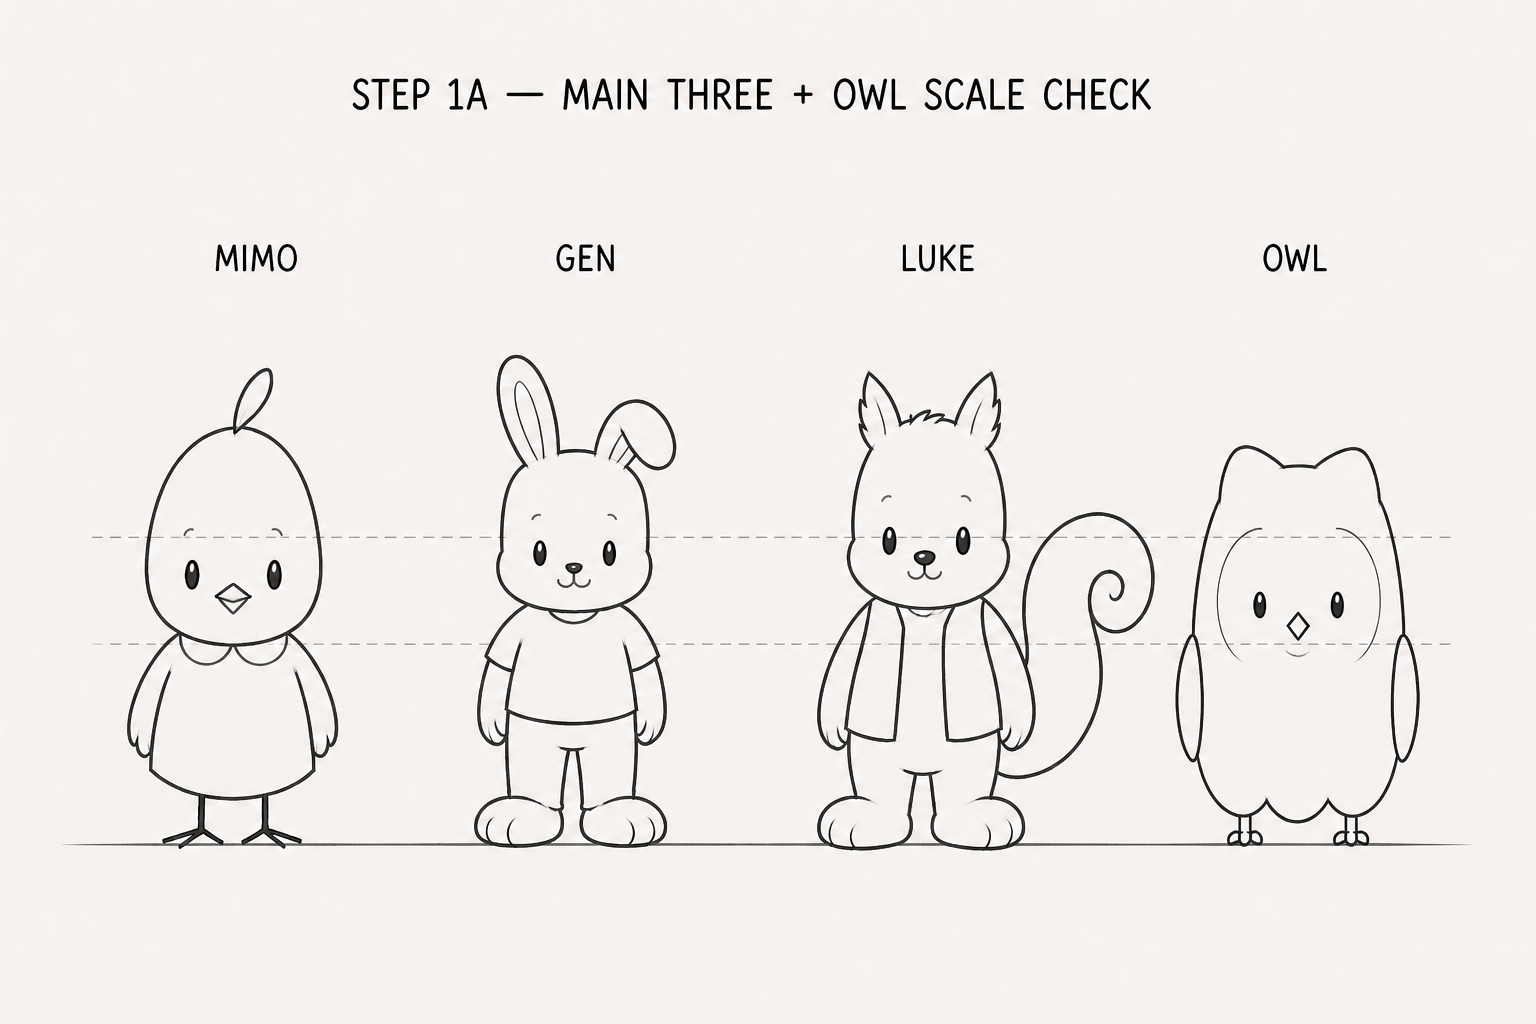
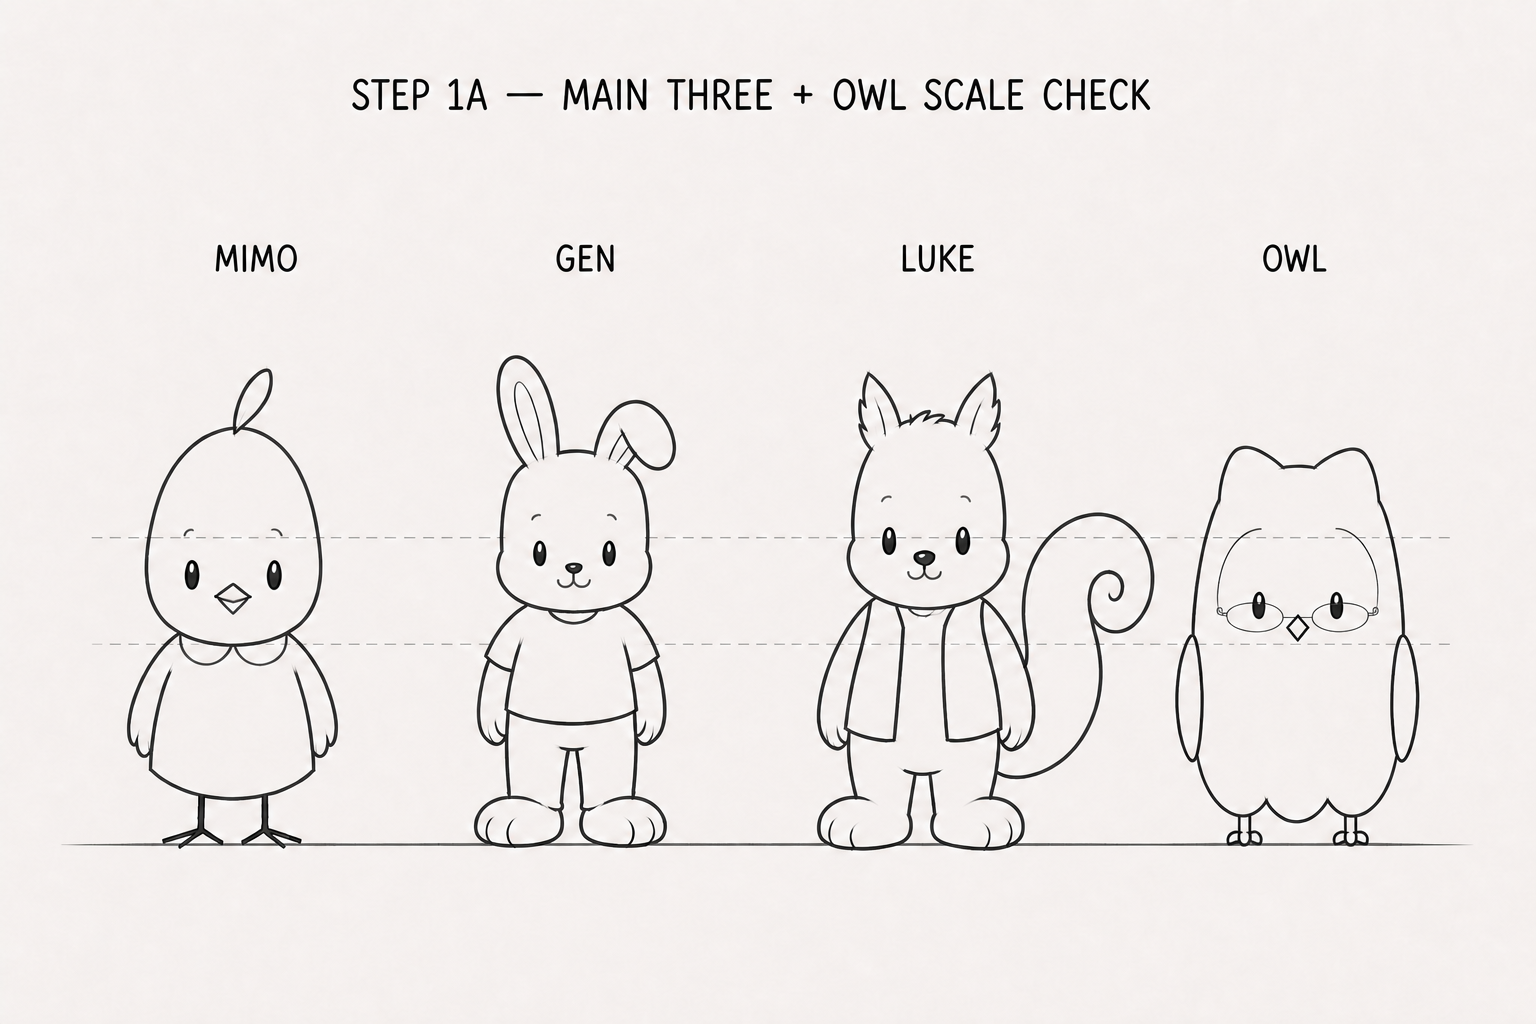
Integrate owl into mascot scale study

diff --git a/planning/style-studies/output-process.html b/planning/style-studies/output-process.html
@@ -143,13 +143,11 @@
     });
     sections.unshift({key:"feedback-20260812",label:"2026-08-12 たかさんfeedback｜FIX順序を再設計",desc:"頭部・身体・ポーズを同時に直すと、ポーズごとに頭身が変わる。8/12 feedbackでは依存関係を固定し、前段の正本を次段がそのまま受け継いだかをゲートごとに確認する。配色は全工程の後。",bodyGrid:true,items:[
       {type:"note",label:"DEPENDENCY｜5つの意思決定軸",text:"STEP 1 成人性の表現方針 → STEP 2 年齢感・正面頭身・相対身長 → STEP 3 三方向の立体整合 → STEP 4 服・手・線の制約 → STEP 5 表情とポーズの演技。各STEPは直前のFIX画像を唯一の形状参照にする。"},
-      {stepLabel:"STEP 1｜成人性の表現方針",title:"成人らしさを、人型化せずどの身体形式で表すか",note:"A＝SMALL MASCOT、B＝柔らかな成人マスコット、C＝人型成人を比較し、Aを採用する。成人性は長い脚や服装ではなく、控えめな顔、安定した立ち方、役割に合う反応で表す。ここでは個別の相対身長や衣装仕様は決めない。",file:"outputs/groups/13-main-three-adult-mascot-policy-abc-comparison-v1.png",status:"A・SMALL MASCOT FIX",statusClass:"current"},
-      {stepLabel:"OWL｜STEP 1A SMALL MASCOT LOCK",title:"分析者・進行役として受容的に見える正面形を固定する",note:"簡潔な線と繭形の一体量感を維持し、Mimoより大きくLukeよりわずかに低い身体高へ調整した最終候補。半目を小さく開いた縦長の目へ変え、片目だけをわずかに細くして比較を表す。黒い上まぶたと上げた翼を外し、両翼を休ませ、顔盤の下へ浅い可動境界を加えた。冷静・深い・納得を保ちながら、退屈、疑い、説教に見えないことを優先する。",file:"outputs/characters/fukurou/fukurou-step1a-small-mascot-lock.png",status:"最終候補・要確認",statusClass:"current"},
-      {stepLabel:"OWL｜MAIN THREE SCALE CHECK",title:"Mimo・Gen・Lukeと同じ接地線で最終サイズを確認する",note:"三人の正面FIXを変えず、修正後フクロウを同一接地線へ配置した。フクロウはLukeの耳・尻尾を除く身体高の約95％を目安とし、Mimoより大きくLukeよりわずかに低い。幅のある一体型身体で会議の進行役としての存在感を保ちつつ、A＝SMALL MASCOTの短い身体形式と小さな足を維持する。",file:"outputs/groups/main-three-owl-step1a-scale-check.png",status:"最終比較・要確認",statusClass:"current"},
-      {stepLabel:"STEP 2｜年齢感・頭身・相対身長",title:"A案を三人へ適用したとき、正面の頭身と身長差をどうするか",note:"STEP 1のA案だけを身体方針に使い、三人を同じ接地線・同じ縮尺で正面化した。Genは小さく角の丸い輪郭、Lukeは頬の横張りを抑えた縦長輪郭へ戻した。耳先の総高、身体、裾、腕、足、尻尾は変更せず、STEP 1からの顔形状継承を優先した。",file:"outputs/groups/48-main-three-small-mascot-age-height-front-gate-v3-gen-luke-face-lock.png",status:"GEN・LUKE顔継承・要確認",statusClass:"current"},
-      {stepLabel:"STEP 2｜PIXEL MEASUREMENT",title:"同じ1536×1024画像上で、各パーツの大きさをどう比較するか",note:"LUKE修正後のSTEP 2正面PNGを同一座標系で再計測した。全高は耳・冠羽込み、頭幅・頭高は耳・冠羽を除外。Lukeの頭部は205×221pxから186×227pxへ更新し、横幅を抑えた縦長比率を数値でも固定する。",file:"outputs/groups/48-main-three-small-mascot-age-height-front-gate-v3-pixel-guide.png",status:"LUKE更新・同縮尺px",statusClass:"current"},
+      {stepLabel:"STEP 1｜成人性の表現方針",title:"成人らしさを、人型化せずどの身体形式で表すか",note:"A＝SMALL MASCOT、B＝柔らかな成人マスコット、C＝人型成人を比較し、Aを採用する。Mimo・Gen・Lukeに加え、フクロウも大きな頭部量感、短い身体、小さな足を持つAへ統合する。成人性は長い脚や服装ではなく、控えめな顔、安定した立ち方、役割に合う反応で表す。",file:"outputs/groups/13-main-three-adult-mascot-policy-abc-comparison-v1.png",status:"A・SMALL MASCOT FIX",statusClass:"current"},
+      {stepLabel:"STEP 2｜年齢感・頭身・相対身長",title:"A案を四人へ適用したとき、正面の頭身と身長差をどうするか",note:"STEP 1のA案だけを身体方針に使い、Mimo・Gen・Luke・フクロウを同じ接地線・同じ1536×1024座標系で正面化した。三人のFIX造形を維持し、フクロウは幅のある頭胴一体型、短い翼、小さな足、本人の近用眼鏡を採用。突出部と身体本体を分けて相対サイズを判断する。",file:"outputs/groups/main-three-owl-step1a-scale-check.png",status:"フクロウ統合・四人要確認",statusClass:"current"},
+      {stepLabel:"STEP 2｜PIXEL MEASUREMENT",title:"同じ1536×1024画像上で、四人の各パーツをどう比較するか",note:"STEP 2の四人正面PNGを同一座標系で再計測した。Mimo・Gen・Lukeは全高、耳・冠羽を除く頭幅・頭高を記録。頭胴が連続するフクロウは、別の頭境界を捏造せず、全高399px、身体外形幅218px、顔盤173×185px、翼長146pxとして記録する。眼鏡は内部記号のため外形寸法へ含めない。",file:"outputs/groups/main-three-owl-step1a-pixel-guide.png",status:"フクロウ追加・同縮尺px",statusClass:"current"},
       {type:"note",label:"STEP 2 ACCEPTANCE｜正面FIX条件",text:"①三人とも幼児ではなく小さな成人に見える、②同じ地面と縮尺で相対身長を比較できる、③頭部が身体を圧迫しない、④正面シルエットだけで識別できる。承認後、このPNGをSTEP 3の唯一の形状参照にする。"},
-      {stepLabel:"STEP 3｜三方向の立体整合",title:"FIXした正面形を変えず、横・後ろをどう成立させるか",note:"STEP 2 v3を唯一の形状・縮尺参照にして前・横・後ろへ展開した。Genの丸角頭部とLukeの細い縦長頭部を三方向で維持し、三人の相対身長、腕長、裾、接地線を正面から引き継いだ。",file:"outputs/groups/49-main-three-small-mascot-turnaround-gate-v2-luke-face-lock.png",status:"LUKE頭部反映・要確認",statusClass:"current"},
+      {stepLabel:"STEP 3｜三方向の立体整合",title:"FIXした正面形を変えず、横・後ろをどう成立させるか",note:"現在の三面図はMimo・Gen・Lukeの正面FIXを前・横・後ろへ展開した基準。フクロウはSTEP 2の正面サイズと眼鏡位置が承認された後、頭胴一体の外形、顔盤、翼端、三枚羽根の裾、眼鏡の保持線を同じ接地線へ統合する。STEP 2未承認の間は別カードを増やさず、この工程内の更新待ちとする。",file:"outputs/groups/49-main-three-small-mascot-turnaround-gate-v2-luke-face-lock.png",status:"フクロウ統合待ち・要確認",statusClass:"current"},
       {type:"note",label:"STEP 3 ACCEPTANCE｜三面図FIX条件",text:"正面がSTEP 2と同一／三方向の頭高・肩・腰・接地線が一致／耳・冠羽・尻尾の付け根が説明できる。ここでは衣装装飾を増やさない。"},
       {stepLabel:"STEP 4｜服・手・線の制約",title:"FIXした身体へ、8/12 feedbackをどこまで載せるか",note:"STEP 3 v2の修正後頭部とSMALL MASCOT縮尺を維持したまま、小さなU、短丈トップ、Lukeの開いたベストを適用した。Lukeの縦長頭部は前・横・後ろで維持し、手先は指・爪を描かない丸い塊としている。",file:"outputs/groups/50-main-three-small-mascot-feedback-constraints-turnaround-v2-luke-face-lock.png",status:"LUKE新頭部へ制約適用・要確認",statusClass:"current"},
       {type:"note",label:"STEP 4 ACCEPTANCE｜制約適用条件",text:"服を加えてもSTEP 3の輪郭と関節位置が変わらない／Uが全方向で論理的に配置される／手先に指・爪が戻らない／線が均一なベクター調にならない。"},

diff --git a/planning/style-studies/annotate_main_three_owl_measurements.py b/planning/style-studies/annotate_main_three_owl_measurements.py
@@ -1,0 +1,101 @@
+from pathlib import Path
+
+from PIL import Image, ImageDraw, ImageFont
+
+
+ROOT = Path(__file__).parent
+SOURCE = ROOT / "outputs/groups/main-three-owl-step1a-scale-check.png"
+OUTPUT = ROOT / "outputs/groups/main-three-owl-step1a-pixel-guide.png"
+
+ORANGE = (237, 106, 55, 255)
+WINE = (155, 49, 85, 255)
+BLUE = (54, 137, 163, 255)
+PAPER = (255, 250, 242, 235)
+GUIDE = (145, 184, 196, 165)
+
+
+def font(size: int):
+    candidates = [
+        "/System/Library/Fonts/ヒラギノ角ゴシック W3.ttc",
+        "/System/Library/Fonts/Helvetica.ttc",
+        "/System/Library/Fonts/Supplemental/Arial.ttf",
+    ]
+    for candidate in candidates:
+        if Path(candidate).exists():
+            return ImageFont.truetype(candidate, size)
+    return ImageFont.load_default()
+
+
+LABEL = font(18)
+SMALL = font(15)
+
+
+def text_box(draw, xy, text, color, anchor="mm", small=False):
+    selected = SMALL if small else LABEL
+    box = draw.textbbox(xy, text, font=selected, anchor=anchor)
+    draw.rounded_rectangle(
+        (box[0] - 5, box[1] - 3, box[2] + 5, box[3] + 3),
+        radius=5,
+        fill=PAPER,
+    )
+    draw.text(xy, text, font=selected, fill=color, anchor=anchor)
+
+
+def vertical(draw, x, y1, y2, text, color, side="right"):
+    draw.line((x, y1, x, y2), fill=color, width=2)
+    draw.line((x - 10, y1, x + 10, y1), fill=color, width=2)
+    draw.line((x - 10, y2, x + 10, y2), fill=color, width=2)
+    anchor = "lm" if side == "right" else "rm"
+    dx = 11 if side == "right" else -11
+    text_box(draw, (x + dx, (y1 + y2) // 2), text, color, anchor, small=True)
+
+
+def horizontal(draw, x1, x2, y, text, color):
+    draw.line((x1, y, x2, y), fill=color, width=2)
+    draw.line((x1, y - 10, x1, y + 10), fill=color, width=2)
+    draw.line((x2, y - 10, x2, y + 10), fill=color, width=2)
+    text_box(draw, ((x1 + x2) // 2, y - 8), text, color, "ms", small=True)
+
+
+image = Image.open(SOURCE).convert("RGBA")
+overlay = Image.new("RGBA", image.size, (0, 0, 0, 0))
+draw = ImageDraw.Draw(overlay)
+
+draw.line((60, 846, 1470, 846), fill=GUIDE, width=1)
+
+# Visible line-envelope measurements on this exact 1536 x 1024 image.
+vertical(draw, 112, 369, 848, "全高 479px", ORANGE)
+horizontal(draw, 141, 323, 418, "頭幅 182px", WINE)
+vertical(draw, 341, 430, 641, "頭高 211px", WINE)
+
+vertical(draw, 455, 355, 847, "全高 492px", ORANGE)
+horizontal(draw, 498, 689, 442, "頭幅 191px", WINE)
+vertical(draw, 710, 454, 621, "頭高 167px", WINE)
+
+vertical(draw, 795, 372, 850, "全高 478px", ORANGE)
+horizontal(draw, 859, 1014, 402, "頭幅 155px", WINE)
+vertical(draw, 1028, 414, 615, "頭高 201px", WINE)
+
+# OWL has an integrated head/body mass, so use outer-envelope and facial-disk measures.
+vertical(draw, 1168, 446, 845, "全高 399px", ORANGE)
+horizontal(draw, 1193, 1411, 475, "身体外形幅 218px", BLUE)
+horizontal(draw, 1219, 1392, 703, "顔盤幅 173px", BLUE)
+vertical(draw, 1426, 519, 704, "顔盤高 185px", BLUE, side="left")
+text_box(draw, (1305, 876), "翼長 146px／頭胴一体型", BLUE, small=True)
+
+draw.rounded_rectangle(
+    (1025, 902, 1470, 990),
+    radius=10,
+    fill=PAPER,
+    outline=(212, 206, 198, 255),
+    width=1,
+)
+draw.line((1045, 926, 1085, 926), fill=ORANGE, width=2)
+draw.text((1095, 916), "全高（耳・冠羽込み）", font=SMALL, fill=ORANGE)
+draw.line((1045, 952, 1085, 952), fill=WINE, width=2)
+draw.text((1095, 942), "頭部（耳・冠羽を除く）", font=SMALL, fill=WINE)
+draw.line((1045, 978, 1085, 978), fill=BLUE, width=2)
+draw.text((1095, 968), "フクロウ一体型身体・顔盤", font=SMALL, fill=BLUE)
+
+Image.alpha_composite(image, overlay).convert("RGB").save(OUTPUT, quality=96)
+print(OUTPUT)
